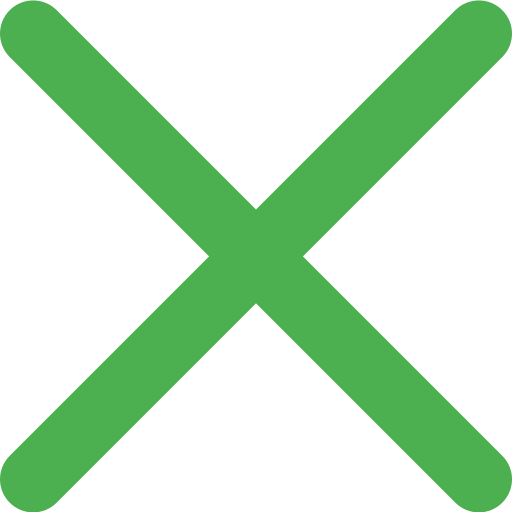
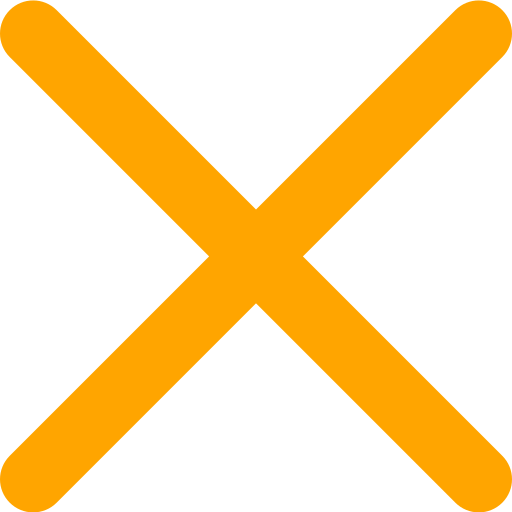
update

diff --git a/src/components/Slider.tsx b/src/components/Slider.tsx
@@ -1,0 +1,55 @@
+"use client"
+import React, { useEffect, useState } from "react";
+import Image from "next/image";
+
+const data = [
+    {
+        id: 1,
+        title: "always fresh & always crispy & always hot",
+        image: "/slide1.png",
+    },
+    {
+        id: 2,
+        title: "we deliver your order wherever you are in Tunisia",
+        image: "/slide2.png",
+    },
+    {
+        id: 3,
+        title: "the best pizza to share with your family",
+        image: "/slide3.jpg",
+    },
+
+]
+
+const Slider = () => {
+    const [currentSlide, setCurrentSlide] = useState(0);
+    useEffect(() => {
+            const interval = setInterval(
+                () =>
+                    setCurrentSlide((prev) => (prev === data.length - 1 ? 0 : prev + 1)),
+                2000)
+                ;
+            return () => clearInterval(interval);
+    }, []);
+    
+    return (
+        <div className="flex flex-col h-[calc(100vh-6rem)] md:h-[calc(100vh-9rem)] lg:flex-row">
+            {/* TEXT CONTAINER */}
+            <div className="flex-1 flex items-center justify-center flex-col gap-8 font-bold"
+            style={{color:"#ffa500"}}>
+                <h1 className="text-5xl text-center uppercase p-4 md:p-10 md:text-6xl xl:text-7xl">
+                    {data[currentSlide].title}
+                </h1>
+                <button className=" text-white py-4 px-8"
+                style={{backgroundColor:"#ffa500"}}> Order Now </button>
+            </div>
+            {/* IMAGE CONTAINER */}
+            <div className="w-full flex-1 relative">
+                <Image src={data[currentSlide].image} alt="" fill className='object-cover' />
+
+            </div>
+        </div>
+    ) 
+}
+
+export default Slider;

diff --git a/src/components/Navbar.tsx b/src/components/Navbar.tsx
@@ -7,7 +7,8 @@ import Image from "next/image";
 const Navbar = () => {
     const user = false
     return (
-        <div className="h-12 text-green-500 p-4 flex items-center justify-between border-b-2 border-b-green-500 uppercase md:h-24 lg:px-20 xl:px-40">
+        <div className="h-12 p-4 flex items-center justify-between uppercase md:h-24 lg:px-20 xl:px-40"
+        style={{color: '#FFA500'}}>
             {/* LEFT LINKS */}
             <div className="hidden md:flex gap-4 flex-1">
                 <Link href="/">Homepage</Link>
@@ -25,9 +26,9 @@ const Navbar = () => {
             </div>
             {/* RIGHT LINKS */}
             <div className="hidden md:flex gap-4 items-center justify-end flex-1">
-                <div className="md:absolute top-3 r-2 lg:static flex items-center gap-2 cursor-pointer bg-orange-300 px-1 rounded-md">
+                <div className="md:absolute top-3 r-2 lg:static flex items-center gap-2 cursor-pointer px-1 rounded-md">
                     <Image src="/phone.png" alt="" width={20} height={20} />
-                    <span>123 456 78</span>
+                    <span>54 039 680</span>
                 </div>
                 {!user ? (
                     <Link href="/login">Login</Link>

diff --git a/src/components/Menu.tsx b/src/components/Menu.tsx
@@ -22,9 +22,10 @@ const Menu = () => {
             {!open ? (
                 <Image src="/open.png" alt="" width={20} height={20} onClick={() => setOpen(true)} />
             ) : (
-                <Image src="/close.png" alt="" width={20} height={20} onClick={() => setOpen(false)} />
+                <Image src= "/close.png" alt="" width={20} height={20} onClick={() => setOpen(false)} />
             )}
-            {open && <div className="bg-green-500 text-white absolute left-0 top-24 w-full h-[calc(100vh-6rem)] flex flex-col gap-8 items-center justify-center text-3xl z-10">
+            {open && <div className=" text-white absolute left-0 top-24 w-full h-[calc(100vh-6rem)] flex flex-col gap-8 items-center justify-center text-3xl z-10"
+            style={{backgroundColor:"#ffa500"}}>
                 {links.map((item) => (
                     <Link href={item.url} key={item.id} onClick={()=>setOpen(false)}>
                         {item.title}

diff --git a/src/components/Notifications.tsx b/src/components/Notifications.tsx
@@ -2,7 +2,8 @@ import React from "react"
 
 const Notification = () => {
     return (
-        <div className="h-12 bg-green-500 text-white px-4 flex items-center justify-center text-center text-sm md:text-base cursor-pointer">Free delivery for all orders over $50. Order your food now!</div>
+        <div className="h-12 text-white px-4 flex items-center justify-center text-center text-sm md:text-base cursor-pointer"
+        style={{backgroundColor: '#FFA500'}}>Free delivery for all orders over 50DT. Order your food now!</div>
     )
 }
 

diff --git a/src/components/Footer.tsx b/src/components/Footer.tsx
@@ -1,9 +1,14 @@
 import React from "react"
+import Link from "next/link";
 
 const Footer = () => {
     return (
-        <div>Footer</div>
-    )
-}
+        <div className="h-12 md:h-24 p-4 lg:p-20 xl:p-40 flex items-center justify-between"
+        style={{color:"#ffa500"}}>
+            <Link href="/" className="font-bold text-xl">TASTYSWIFT</Link>
+            <p>© ALL RIGHTS RESERVED.</p>
+        </div>
+    );
+};
 
 export default Footer;

diff --git a/src/app/page.tsx b/src/app/page.tsx
@@ -1,7 +1,13 @@
-import Image from 'next/image'
+import Slider from '@/components/Slider'
+import Featured from '@/components/Featured'
+import Offer from '@/components/Offer'
 
 export default function Home() {
   return (
-    <main > Hello world !</main>
+    <main > 
+      <Slider/>
+      <Featured/>
+      <Offer/>
+    </main>
   )
 }

diff --git a/src/components/Featured.tsx b/src/components/Featured.tsx
@@ -1,0 +1,8 @@
+import React from "react";
+
+const Featured = () => {
+    return (
+        <div>Featured</div >
+    )
+}
+export default Featured;

diff --git a/src/components/Offer.tsx b/src/components/Offer.tsx
@@ -1,0 +1,9 @@
+import React from "react";
+
+const Offer = () => {
+    return (
+        <div>Offer</div>
+    )
+}
+
+export default Offer;
